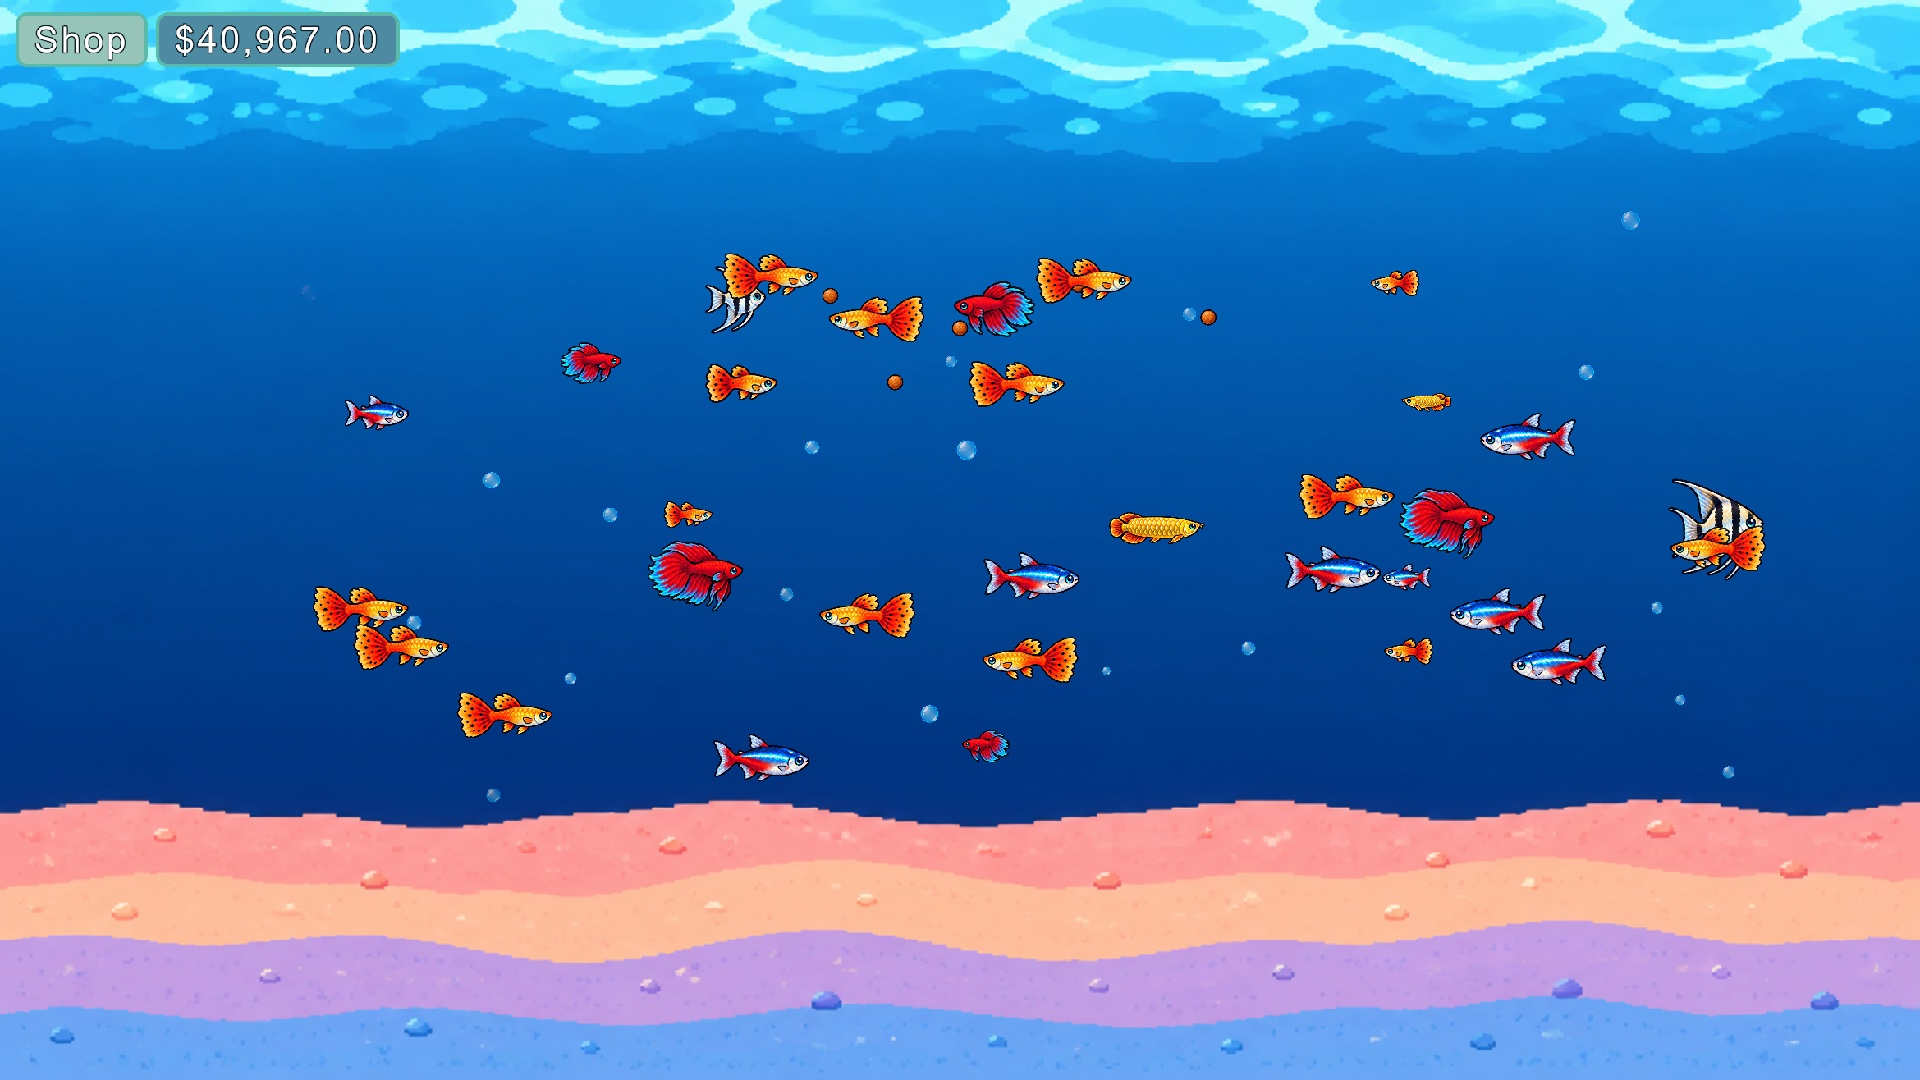
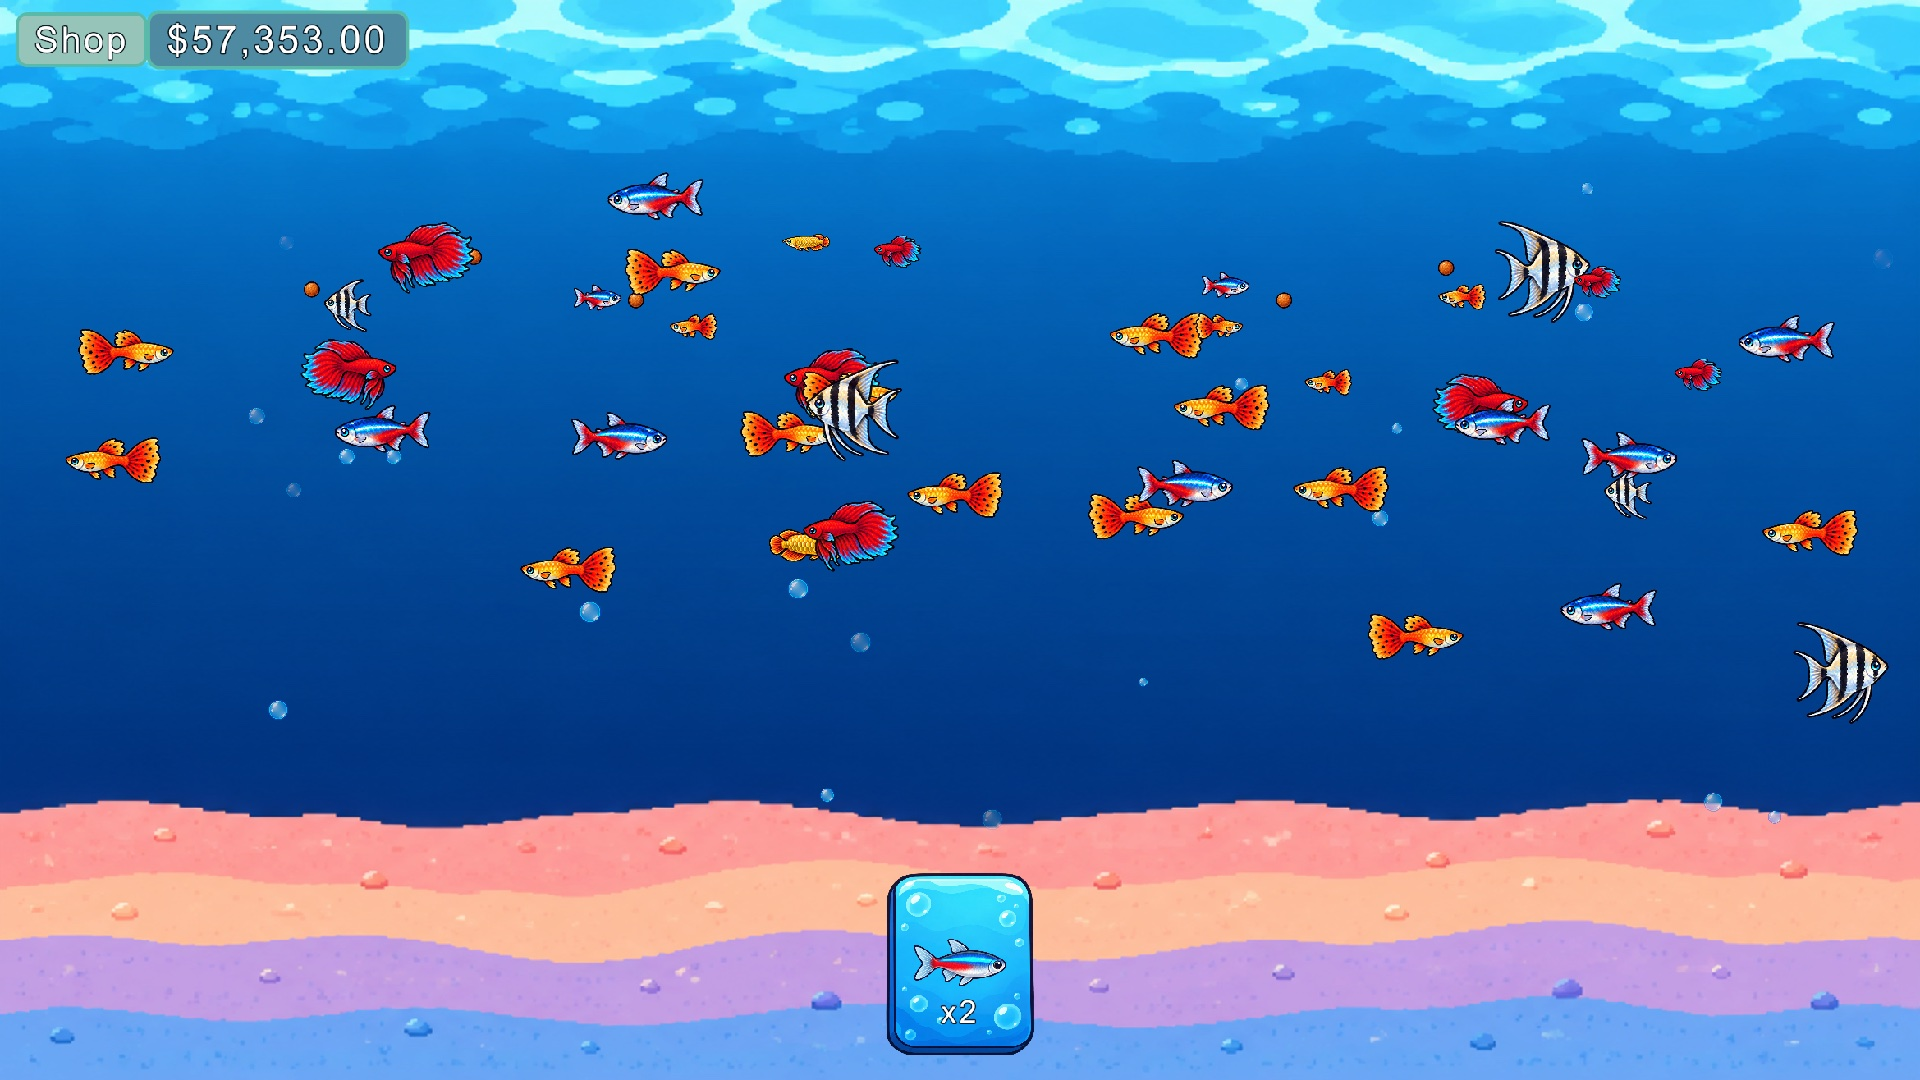
Update README screenshots and feature notes

diff --git a/README.md b/README.md
@@ -8,11 +8,11 @@ A small, cozy idle aquarium game made in Unity as a learning project. Buy fish c
 
 ## Features
 
-- **Fish cards:** the shop sells one card, "Freshwater Friends", one at a time or 5 at once. Bought cards wait at the bottom of the tank. Each click on them opens one and lays out 5 more random fish cards; click a card, or hold and swipe across several, to send their fish into the tank. No food drops while fish cards are out.
+- **Fish cards:** the shop sells one card, "Freshwater Friends", one at a time or 5 at once. Bought cards wait at the bottom of the tank. Each click on them opens one and lays out 5 more random fish cards, which pop in while the cards already out squeeze aside. Click a card, or hold and swipe across the row, to send their fish into the tank; while you hold, the row keeps sliding toward the pointer and its cards are collected one after another. No food drops while fish cards are out.
 - **Rarities:** every fish is Common, Rare, Epic or Legendary. Rarer fish drop less often and earn more.
 - **Idle income:** every fish in the tank earns money each second. Babies earn a little, adults earn a lot.
-- **Growing up:** fish earn XP over time and grow from baby to adult as it adds up, then switch to their adult look.
-- **Feeding:** click in the water to drop food. Hungry babies chase the nearest pellet, and every bite gives them extra XP.
+- **Growing up:** fish earn XP over time. Babies stay small until their XP adds up, then grow into full-size adults with a new look.
+- **Feeding:** click in the water to drop food, or hold the button to keep dropping it. Hungry babies chase the nearest pellet, and every bite gives them extra XP.
 - **Stroke swimming:** fish swim like real fish. They push off in a stroke, squeeze and stretch, glide, slow down and stroke again in a new direction.
 - **Saving:** money and fish are saved automatically, so the tank is waiting for you when you come back.
 - **Polish:** rising bubbles, a bouncing money counter with floating "+$" labels, fish cards that pop in and spin away, and small sound effects.
@@ -37,8 +37,8 @@ Babies earn 1 XP per second and 5 XP per food pellet. A card costs $5 and holds 
 
 1. Open the project in **Unity 6000.6.0f1** (macOS).
 2. Open `Assets/Scenes/MainScene.unity` and press **Play**.
-3. You start with one Guppy and $10. Click **Shop**, then **Buy**. Click the card at the bottom of the tank to open it, then click each fish card.
-4. Click in the water to feed the babies.
+3. You start with one Guppy and $10. Click **Shop**, then **Buy** (or **Buy x5**). Click the card at the bottom of the tank to open it, then click each fish card or swipe across them.
+4. Click or hold in the water to feed the babies.
 5. To start over, use **Tools > Chillquarium > Delete Save** (outside Play Mode).
 
 ## How it was made
